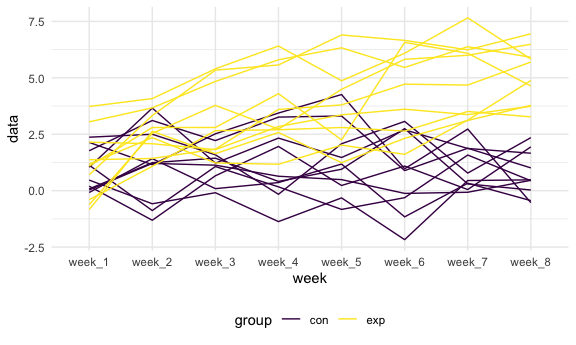
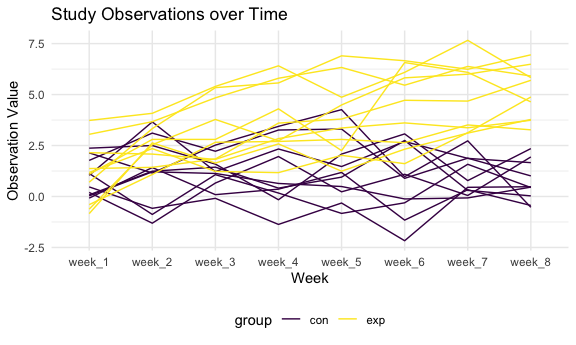
some changes

diff --git a/p8105_hw5_yg2834.md b/p8105_hw5_yg2834.md
@@ -316,7 +316,10 @@ participants %>%
                names_to = "week", 
                values_to = "data") %>% 
   ggplot(aes(x = week, y = data, group = code, color = group)) +
-  geom_line()
+  geom_line() + 
+  labs(x = "Week",
+       y = "Observation Value",
+       title = "Study Observations over Time")
 ```
 
 <img src="p8105_hw5_yg2834_files/figure-gfm/unnamed-chunk-4-1.png" width="90%" />
